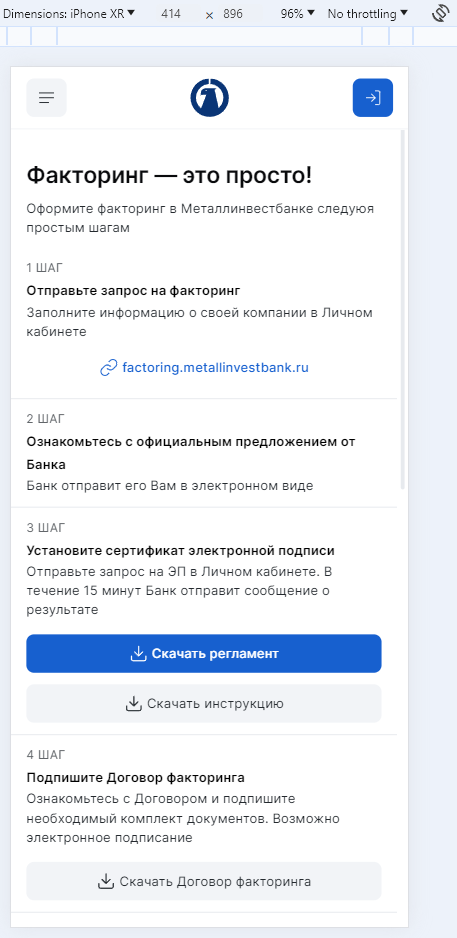
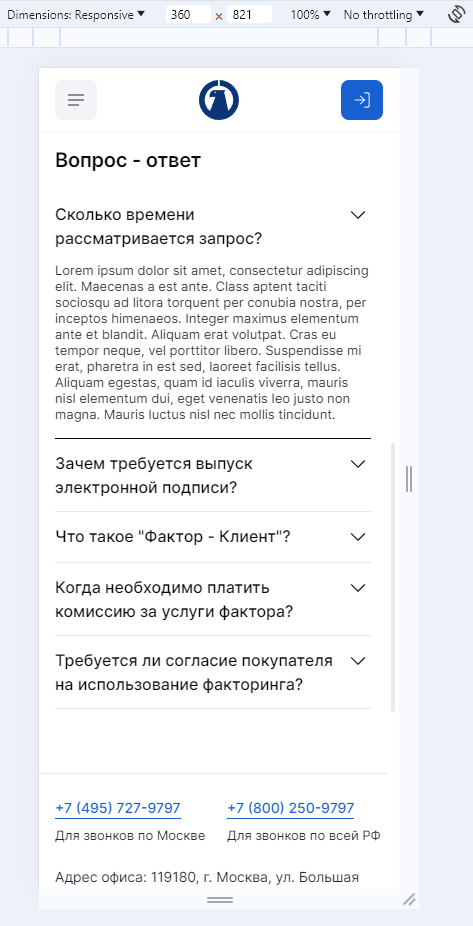
feat: clients.page desktop/mobile

diff --git a/src/app/public/pages/clients/clients.component.ts b/src/app/public/pages/clients/clients.component.ts
@@ -12,6 +12,34 @@ export class ClientsComponent {
 
 	private subscriptions = new Subscription()
 
+	questions = [
+		{
+			title: 'Сколько времени рассматривается запрос?',
+			content:
+				'Lorem ipsum dolor sit amet, consectetur adipiscing elit. Maecenas a est ante. Class aptent taciti sociosqu ad litora torquent per conubia nostra, per inceptos himenaeos. Integer maximus elementum ante et blandit. Aliquam erat volutpat. Cras eu tempor neque, vel porttitor libero. Suspendisse mi erat, pharetra in est sed, laoreet facilisis tellus. Aliquam egestas, quam id iaculis viverra, mauris nisl elementum dui, eget venenatis leo justo non magna. Mauris luctus nisl nec mollis tincidunt.'
+		},
+		{
+			title: 'Зачем требуется выпуск электронной подписи?',
+			content:
+				'Lorem ipsum dolor sit amet, consectetur adipiscing elit. Maecenas a est ante. Class aptent taciti sociosqu ad litora torquent per conubia nostra, per inceptos himenaeos. Integer maximus elementum ante et blandit. Aliquam erat volutpat.'
+		},
+		{
+			title: 'Что такое "Фактор - Клиент"?',
+			content:
+				' Cras eu tempor neque, vel porttitor libero. Suspendisse mi erat, pharetra in est sed, laoreet facilisis tellus. Aliquam egestas, quam id iaculis viverra, mauris nisl elementum dui, eget venenatis leo justo non magna. Mauris luctus nisl nec mollis tincidunt.'
+		},
+		{
+			title: 'Когда необходимо платить комиссию за услуги фактора?',
+			content:
+				'Lorem ipsum dolor sit amet, consectetur adipiscing elit. Maecenas a est ante. Class aptent taciti sociosqu ad litora torquent per conubia nostra, per inceptos himenaeos. Integer maximus elementum ante et blandit. Aliquam erat volutpat. Cras eu tempor neque, vel porttitor libero. Suspendisse mi erat, pharetra in est sed, laoreet facilisis tellus. Aliquam egestas, quam id iaculis viverra, mauris nisl elementum dui, eget venenatis leo justo non magna. Mauris luctus nisl nec mollis tincidunt.'
+		},
+		{
+			title: 'Требуется ли согласие покупателя на использование факторинга?',
+			content:
+				' Cras eu tempor neque, vel porttitor libero. Suspendisse mi erat, pharetra in est sed, laoreet facilisis tellus. Aliquam egestas, quam id iaculis viverra, mauris nisl elementum dui, eget venenatis leo justo non magna. Mauris luctus nisl nec mollis tincidunt.'
+		}
+	]
+
 	constructor(public breakpointService: BreakpointObserverService) {}
 
 	ngOnInit(): void {

diff --git a/src/app/public/pages/clients/clients.component.html b/src/app/public/pages/clients/clients.component.html
@@ -186,9 +186,6 @@
 			<div class="flex flex_center">
 				<mib-counter [filled]="false"> 5 </mib-counter>
 			</div>
-			<div class="flex flex_grow flex_center">
-				<div class="flex line"></div>
-			</div>
 		</div>
 		<ng-template #mobileStap5>
 			<div class="flex">
@@ -227,5 +224,16 @@
 			<mib-spacing type="s"></mib-spacing>
 		</div>
 	</div>
-	<mib-spacing type="xl2"></mib-spacing>
+	<div class="flex flex_column accordion">
+		<mib-spacing type="l"></mib-spacing>
+		<h4>Вопрос - ответ</h4>
+		<mib-spacing type="xs"></mib-spacing>
+		<mib-accordion-item
+			*ngFor="let item of questions"
+			[device]="isDesktop ? 'desktop' : 'mobile'"
+			[question]="item.title"
+			[answer]="item.content"
+		></mib-accordion-item>
+	</div>
+	<mib-spacing type="{{ isDesktop ? 'xl2' : 'lm' }}"></mib-spacing>
 </div>

diff --git a/src/app/shared/ui-kit/accordion-item/accordion-item.component.html b/src/app/shared/ui-kit/accordion-item/accordion-item.component.html
@@ -1,0 +1,27 @@
+<div
+	[class.extended]="extended"
+	[ngClass]="classes"
+	class="flex flex_column accordion"
+>
+	<div
+		(click)="extended = !extended"
+		class="flex w-100 flex_column header cursor-pointer"
+	>
+		<mib-spacing type="xs"></mib-spacing>
+		<div class="flex w-100 gap-8">
+			<div class="flex flex_grow">
+				<span class="text text_l text_medium c-bti-primary">
+					{{ question }}
+				</span>
+			</div>
+			<mib-icon btn-icon class="stroke" name="fi_chevron-down"></mib-icon>
+		</div>
+		<mib-spacing type="xs"></mib-spacing>
+	</div>
+	<div *ngIf="extended" class="flex flex_column">
+		<span class="text text_s c-bti-secondary">
+			{{ answer }}
+		</span>
+		<mib-spacing type="s"></mib-spacing>
+	</div>
+</div>

diff --git a/src/app/public/public.module.ts b/src/app/public/public.module.ts
@@ -55,6 +55,7 @@ import {SkeletonModule} from '../shared/ui-kit/skeleton/skeleton.module'
 import {MarkModule} from '../shared/ui-kit/mark/mark.module'
 import {SwipeTextSliderModule} from './components/swipe-text-slider/swipe-text-slider.module'
 import {LeftIconModule} from '../shared/directives/left-icon/left-icon.module'
+import {AccordionItemModule} from '../shared/ui-kit/accordion-item/accordion-item.module'
 
 const routes = [
 	{
@@ -138,7 +139,8 @@ const maskConfigFunction: () => Partial<IConfig> = () => {
 		SkeletonModule,
 		MarkModule,
 		SwipeTextSliderModule,
-		LeftIconModule
+		LeftIconModule,
+		AccordionItemModule
 	],
 	exports: [RouterModule],
 	declarations: [

diff --git a/src/app/shared/ui-kit/accordion-item/accordion-item.component.ts b/src/app/shared/ui-kit/accordion-item/accordion-item.component.ts
@@ -1,0 +1,22 @@
+import {animate, state, style, transition, trigger} from '@angular/animations'
+import {Component, Input} from '@angular/core'
+import {AccordionItemDevice} from './interfaces/accordion-item.interface'
+
+@Component({
+	selector: 'mib-accordion-item',
+	templateUrl: './accordion-item.component.html',
+	styleUrls: ['./accordion-item.component.scss']
+})
+export class AccordionItemComponent {
+	@Input() device: AccordionItemDevice = 'desktop'
+	@Input() question: string = 'test question'
+	@Input() answer: string = 'this is answer'
+
+	public extended: boolean = false
+
+	get classes() {
+		return {
+			[`accordion_${this.device}`]: true
+		}
+	}
+}

diff --git a/src/app/shared/ui-kit/accordion-item/accordion-item.component.scss b/src/app/shared/ui-kit/accordion-item/accordion-item.component.scss
@@ -1,0 +1,31 @@
+@import 'src/styles/helpers/icon_tools';
+
+:host {
+	width: 100%;
+}
+
+.accordion {
+	border-bottom: 1px solid var(--wgr-tertiary);
+
+	&_mobile {
+		& mib-spacing[type='xs'] {
+			height: 12px;
+		}
+		& mib-spacing[type='s'] {
+			height: 16px;
+		}
+	}
+
+	& mib-icon[name='fi_chevron-down'] {
+		@include icon-color(var(--bti-secondary));
+		@include icon-size(26px);
+	}
+
+	&:hover {
+		border-bottom: 1px solid var(--wti-secondary);
+	}
+
+	&.extended {
+		border-bottom: 1px solid var(--bti-primary);
+	}
+}

diff --git a/src/app/shared/ui-kit/accordion-item/accordion-item.module.ts b/src/app/shared/ui-kit/accordion-item/accordion-item.module.ts
@@ -1,0 +1,12 @@
+import {NgModule} from '@angular/core'
+import {CommonModule} from '@angular/common'
+import {AccordionItemComponent} from './accordion-item.component'
+import {SpacingModule} from '../spacing/spacing.module'
+import {IconModule} from '../ref-icon/icon.module'
+
+@NgModule({
+	declarations: [AccordionItemComponent],
+	imports: [CommonModule, SpacingModule, IconModule],
+	exports: [AccordionItemComponent]
+})
+export class AccordionItemModule {}

diff --git a/src/app/public/pages/clients/clients.component.scss b/src/app/public/pages/clients/clients.component.scss
@@ -37,6 +37,10 @@
 		& .stap-title {
 			height: auto;
 		}
+
+		& .accordion {
+			padding: 0 16px;
+		}
 	}
 }
 

diff --git a/src/app/shared/ui-kit/accordion-item/interfaces/accordion-item.interface.ts b/src/app/shared/ui-kit/accordion-item/interfaces/accordion-item.interface.ts
@@ -1,0 +1,1 @@
+export type AccordionItemDevice = 'desktop' | 'mobile'

diff --git a/src/app/shared/modules/mib-ui/README.md b/src/app/shared/modules/mib-ui/README.md
@@ -344,6 +344,13 @@ ng g m shared/ui-kit/contracted-forms/contracted-forms --flat  --dry-run
 ng g c shared/ui-kit/contracted-forms/contracted-forms --flat  --skip-tests --dry-run
  //---
 
+ //--- accordion-item
+src\app\shared\ui-kit\accordion-item
+ng g i shared/ui-kit/accordion-item/interfaces/accordion-item.interface  --dry-run
+ng g m shared/ui-kit/accordion-item/accordion-item --flat  --dry-run
+ng g c shared/ui-kit/accordion-item/accordion-item --flat  --skip-tests --dry-run
+ //---
+
  //--- file-cell
 src\app\shared\ui-kit\file-cell
 ng g i shared/ui-kit/file-cell/interfaces/file-cell.interface  --dry-run
